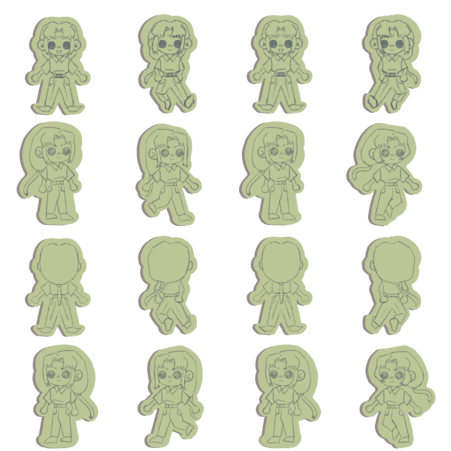
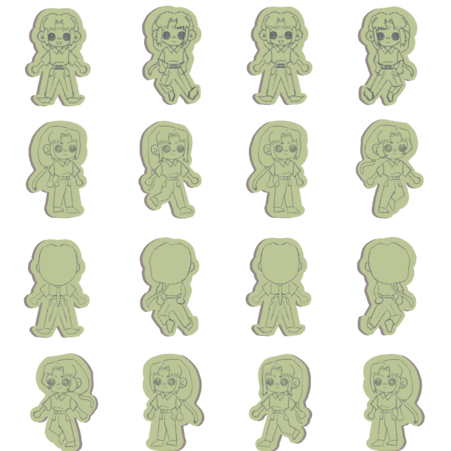
walk animation set!

diff --git a/Sprite.js b/Sprite.js
@@ -8,14 +8,48 @@ class Sprite {
     }
 
     this.animations = config.animations || {
-      idleDown: [
-        [0,0]
-      ]
+      "idle-down" : [ [0,0] ],
+      "idle-right": [ [0,1] ],
+      "idle-up"   : [ [0,2] ],
+      "idle-left" : [ [1,3] ],
+      "walk-down" : [ [1,0],[0,0],[3,0],[0,0], ],
+      "walk-right": [ [1,1],[0,1],[3,1],[0,1], ],
+      "walk-up"   : [ [1,2],[0,2],[3,2],[0,2], ],
+      "walk-left" : [ [2,3],[1,3],[0,3],[1,3], ]
     }
-    this.currentAnimation = config.currentAnimation || "idleDown";
+    this.currentAnimation = "walk-left"; //config.currentAnimation || "idle-down";
     this.currentAnimationFrame = 0;
 
+    this.animationFrameLimit= config.animationFrameLimit || 10;
+    this.animationFrameProgress = this.animationFrameLimit;
+
     this.gameObject = config.gameObject;
+  }
+
+  get frame(){
+    return this.animations[this.currentAnimation][this.currentAnimationFrame]
+  }
+
+  setAnimation(key) {
+    if (this.currentAnimation !== key) {
+      this.currentAnimation = key;
+      this.currentAnimationFrame = 0;
+      this.animationFrameProgress = this.animationFrameLimit;
+    }
+  }
+
+  updateAnimationProgress() {
+    if (this.animationFrameProgress > 0) {
+      this.animationFrameProgress -= 1;
+      return;
+    }
+
+    this.animationFrameProgress = this.animationFrameLimit;
+    this.currentAnimationFrame += 1;
+
+    if (this.frame === undefined) {
+      this.currentAnimationFrame = 0
+    }
   }
 
   draw(ctx) {
@@ -24,12 +58,17 @@ class Sprite {
 
     this.isShadowLoaded && ctx.drawImage(this.shadow, x, y);
 
+    const [frameX,frameY] = this.frame;
+
     this.isLoaded && ctx.drawImage(this.image,
-      0,0,
-      120,120,
+      frameX * 120,frameY * 120,
+      114,114,
       x,y,
-      150,150
+      140,140
     )
+
+    this.updateAnimationProgress();
   }
+
 
 }

diff --git a/Person.js b/Person.js
@@ -5,15 +5,17 @@ class Person extends GameObject{
 
         this.isPlayerControlled = config.isPlayerControlled || false;
         this.directionUpdate = {
-          "up": ["y", -2],
-          "down": ["y", 2],
-          "left": ["x", -2],
-          "right": ["x", 2],
+          "up": ["y", -3],
+          "down": ["y", 3],
+          "left": ["x", -3],
+          "right": ["x", 3
+        ],
         }
     }
 
     update(state) {
         this.updatePosition();
+        this.updateSprite(state);
     
         if (this.isPlayerControlled && this.movingProgressRemaining === 0 && state.arrow) {
           this.direction = state.arrow;
@@ -27,6 +29,16 @@ class Person extends GameObject{
           this[property] += change;
           this.movingProgressRemaining -= 1;
         }
+      }
+
+      updateSprite(state){
+        if (this.isPlayerControlled && this.movingProgressRemaining === 0 && !state.arrow) {
+          this.sprite.setAnimation("idle-"+this.direction);
+          return;
+        }
+          if(this.movingProgressRemaining > 0){
+            this.sprite.setAnimation("walk-"+this.direction);
+          }
       }
     
     }
